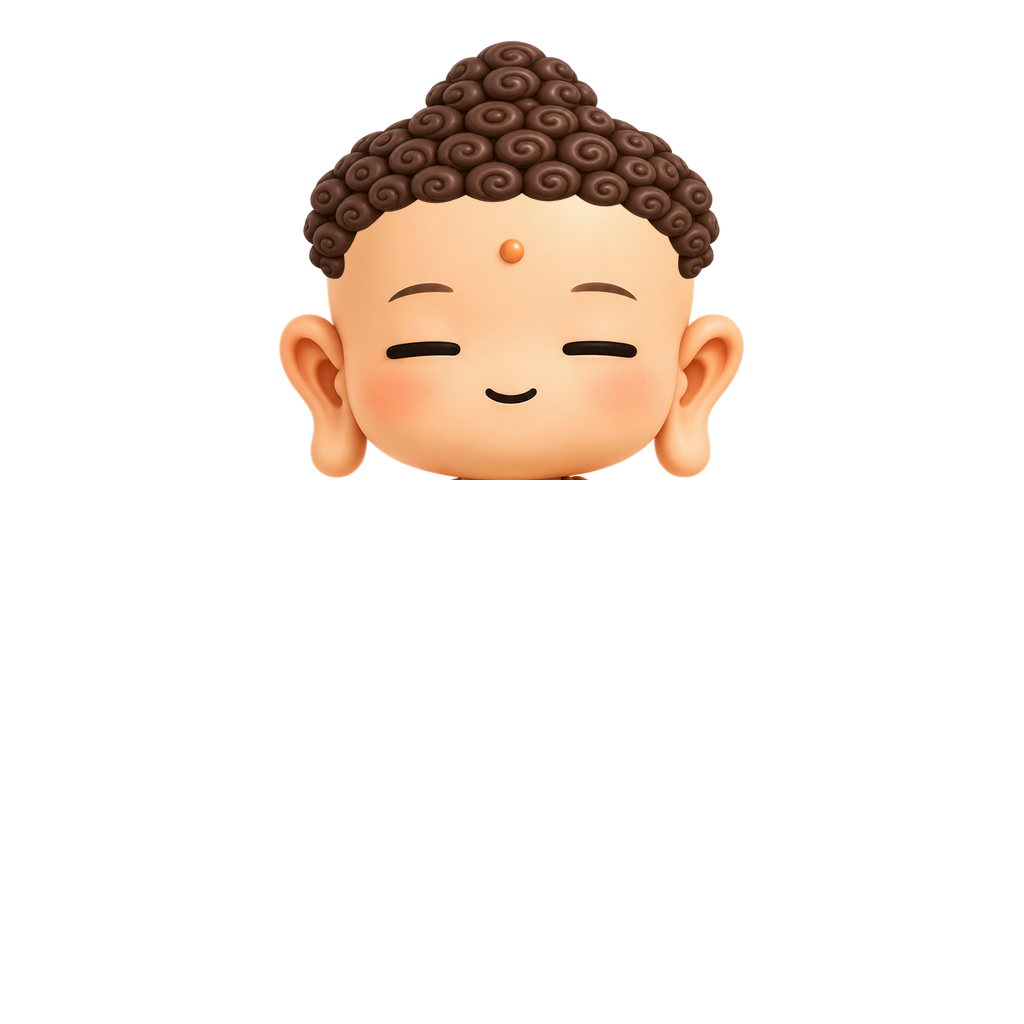
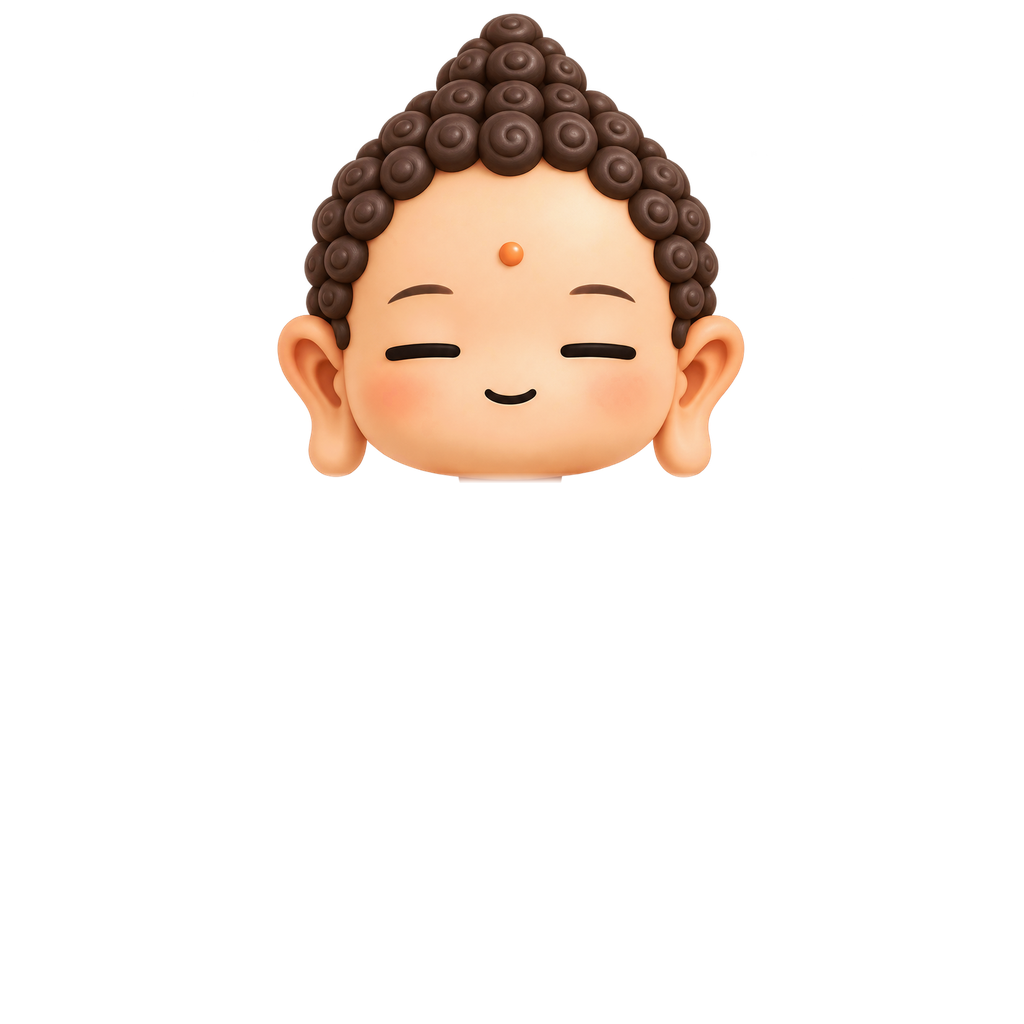
꾸미기: 머리 아이템을 GPT가 그린 「모자 쓴 얼굴」로 교체
삿갓·밀짚모자·나발을 씌우면 모자가 머리를 덮지 못하고 뚜껑처럼
정수리 위에 얹혀 보이던 문제를 고친다.

원인
- 앱에 들어가던 head_*.png 는 GPT가 새로 그린 「모자 쓴 얼굴」이
  아니었다. assemble_buddha_sprites.py 의 build_heads() 가 예전
  「모자만」 그림을 고정 크기(삿갓 500×190 등)로 늘려 y=40 에
  올려놓은 합성본이었다. 모자가 머리와 겹칠 수 없는 구조다.
- GPT가 19:08 에 만든 얼굴 3장은 생성 폴더에만 있고 쓰이지 않았다.

변경
- GPT 원본 3장을 Imgs/head_{bamboo,straw,nabal}_face.png 로 복사.
  기존 Imgs/head_*.png 는 건드리지 않았다.
- build_avatar_assets.py: head_*_face.png 가 있으면 베이스 좌표로 옮겨
  목 위만 잘라 쓴다. 얼굴 캔버스(1254)와 배율이 달라 정합이 필요하다.
  · 두 눈 가운데를 베이스 눈 가운데(510, 356)에 맞춤
  · 배율은 귀 끝~귀 끝 폭 기준(0.62~0.63). 눈 사이로 재면 귀가
    작아져 뒤의 베이스 민머리가 비친다
  · 옮긴 뒤 베이스 머리가 새 얼굴 밖으로 비치는 픽셀을 세어
    400px 을 넘으면 빌드를 멈춘다 (현재 16~169px, 목 이음매)
- make_avatar_thumbs.py: 얼굴을 따로 그린 것이라 맨머리와 비교하면
  눈·백호·귀 윤곽도 조금씩 남는다. 가는 선은 열림 연산으로 끊고,
  맨 위와 이어진 덩어리(모자)만 남긴다. 기준값 18→45 로 올려
  챙 아래 이마 띠도 없앴다.

확인
- 에뮬레이터에서 삿갓·밀짚모자 착용 확인, 목 이음매 이상 없음
- 썸네일 세 개 모두 물건만 나옴

diff --git a/tools/build_avatar_assets.py b/tools/build_avatar_assets.py
@@ -2,13 +2,16 @@
 
 Imgs/ (납품 원본) → assets/avatar/ (앱에 나가는 것)
 
-머리 아이템은 「전신 + 모자」로 받아서 여기서 목 위만 잘라낸다.
-GPT에게 목 아래를 지우라고 시키면 잘 못하는데, 베이스와 같은 좌표계라
-우리가 자르는 건 정확하다. 자세한 건 docs/부처님_머리_재작업요청서.md.
+머리 아이템은 「모자 쓴 얼굴」을 통째로 받는다. 받는 형태는 두 가지다.
 
-**위치나 크기를 여기서 보정하지 않는다.** 아이템이 어긋나 보이면 그건
-생성 단계에서 잡아야 한다. 여기서 손으로 맞추기 시작하면 아이템마다
-숫자를 붙들고 있어야 한다.
+- head_*_face.png — 얼굴만 그린 그림. 캔버스도 배율도 베이스와 다르므로
+  베이스 얼굴에 포개지게 옮겨 놓는다 (FACE_FIT). 모자만 따로 그려 얹으면
+  모자가 머리를 덮지 못하고 뚜껑처럼 올라앉는다. 그래서 얼굴째 받는다.
+- head_*_full.png — 베이스를 편집한 전신. 좌표가 같으니 목 위만 자른다.
+
+**아이템을 보기 좋게 옮기는 보정은 하지 않는다.** FACE_FIT 은 「얼굴을
+베이스 얼굴에 겹치는」 정합일 뿐이고, 그 결과가 베이스 머리를 다 덮는지
+여기서 검사한다. 모자가 크거나 낮아 보이면 그건 생성 단계에서 잡는다.
 
     python tools/build_avatar_assets.py
     python tools/make_avatar_thumbs.py    # 썸네일은 이 결과에서 다시 뽑는다
@@ -31,6 +34,20 @@ NECK_Y = 478
 
 # 잘린 끝을 몇 픽셀 흐리게 해서 경계선이 서지 않게 한다.
 NECK_FEATHER = 6
+
+# head_*_face.png 를 베이스 좌표로 옮기는 값: (배율, 왼쪽, 위).
+# 두 눈의 가운데를 베이스 눈 가운데(510, 356)에 맞추고, 배율은 귀 끝에서
+# 귀 끝까지의 폭으로 정했다. 눈 사이로 재면 GPT 얼굴의 귀가 상대적으로
+# 작아져서 뒤의 베이스 귀·민머리가 비친다. 세로는 베이스 머리가 가장 덜
+# 비치는 자리로 몇 픽셀 올렸다.
+FACE_FIT = {
+    "head_bamboo": (0.62, 123, -96),
+    "head_straw": (0.63, 116, -78),
+    "head_nabal": (0.62, 123, -112),
+}
+
+# 옮긴 얼굴 뒤로 베이스 민머리가 이만큼 넘게 비치면 정합이 틀린 것이다.
+MAX_PEEK = 400
 
 BASES = ["base_saffron", "base_temple", "base_ash", "base_crimson"]
 HEADS = ["head_nabal", "head_bamboo", "head_straw"]
@@ -68,6 +85,25 @@ def cut_head(full: Image.Image) -> Image.Image:
     return head
 
 
+def fit_face(face: Image.Image, fit, base: Image.Image) -> Image.Image:
+    """얼굴 그림을 베이스 캔버스로 옮기고 목 아래를 자른다."""
+    scale, left, top = fit
+    size = round(face.width * scale)
+    moved = face.resize((size, size), Image.Resampling.LANCZOS)
+    canvas = Image.new("RGBA", (CANVAS, CANVAS), (0, 0, 0, 0))
+    canvas.paste(moved, (left, top))
+    head = cut_head(canvas)
+
+    # 뒤에 깔린 베이스 머리가 새 얼굴 밖으로 비치는지 센다.
+    solid = lambda a: a.point(lambda v: 255 if v > 128 else 0)
+    under = solid(base.getchannel("A"))
+    under.paste(0, (0, NECK_Y - 8, CANVAS, CANVAS))
+    peek = ImageChops.subtract(under, solid(head.getchannel("A"))).histogram()[255]
+    if peek > MAX_PEEK:
+        raise SystemExit(f"베이스 머리가 {peek}px 비친다 — FACE_FIT 을 다시 재야 한다")
+    return head, peek
+
+
 def main() -> None:
     OUT.mkdir(parents=True, exist_ok=True)
 
@@ -75,9 +111,17 @@ def main() -> None:
         load(name).save(OUT / f"{name}.png", optimize=True)
         print(name)
 
+    base = load("base_saffron")
+
     for name in HEADS:
+        face = SRC / f"{name}_face.png"
         full = SRC / f"{name}_full.png"
-        if full.exists():
+        if face.exists():
+            image = Image.open(face).convert("RGBA")
+            head, peek = fit_face(image, FACE_FIT[name], base)
+            head.save(OUT / f"{name}.png", optimize=True)
+            print(f"{name}  (모자 쓴 얼굴을 베이스에 포갬, 비침 {peek}px)")
+        elif full.exists():
             # 새 방식: 전신을 받아 목 위만 잘라낸다.
             cut_head(load(f"{name}_full")).save(
                 OUT / f"{name}.png", optimize=True)

diff --git a/tools/make_avatar_thumbs.py b/tools/make_avatar_thumbs.py
@@ -81,12 +81,30 @@ def fill_holes(mask: Image.Image) -> Image.Image:
     return ImageChops.lighter(mask, background)
 
 
+def keep_top_blob(mask: Image.Image) -> Image.Image:
+    """맨 위 픽셀과 이어진 덩어리만 남긴다.
+
+    머리 레이어는 「모자 쓴 얼굴」을 따로 그려 받은 것이라 눈·백호·귀
+    윤곽이 베이스와 몇 픽셀씩 어긋난다. 그 차이도 조각으로 남는데, 모자는
+    늘 맨 위에서 시작하는 한 덩어리이니 거기 붙은 것만 고른다.
+    """
+    box = mask.getbbox()
+    if box is None:
+        return mask
+    top = box[1]
+    seed = next(x for x in range(mask.width) if mask.getpixel((x, top)))
+    marked = mask.copy()
+    ImageDraw.floodfill(marked, (seed, top), 128)
+    return marked.point(lambda v: 255 if v == 128 else 0)
+
+
 def extract_item(layer: Image.Image, bare_head: Image.Image,
-                 threshold: int = 18) -> Image.Image:
+                 threshold: int = 45) -> Image.Image:
     """머리 레이어에서 「베이스 얼굴과 달라진 부분」만 떼어낸다.
 
-    머리 아이템은 「베이스 얼굴 + 물건」으로 만들어져 있어서, 맨머리와
-    비교하면 남는 게 곧 물건이다. 옷장 목록에 얼굴이 줄줄이 나오면
+    머리 아이템은 「모자 쓴 얼굴」이라 맨머리와 비교하면 남는 게 곧
+    물건이다. 얼굴도 따로 그린 것이라 살색이 조금씩 다르다. 기준을 낮추면
+    챙 아래 이마가 띠처럼 딸려 나온다. 옷장 목록에 얼굴이 줄줄이 나오면
     답답해서 물건만 보여준다.
     """
     rgb = ImageChops.difference(layer.convert("RGB"), bare_head.convert("RGB"))
@@ -104,7 +122,10 @@ def extract_item(layer: Image.Image, bare_head: Image.Image,
     # 가로줄로 남으므로 목 근처는 아예 뺀다. 모자가 거기까지 올 일은 없다.
     mask.paste(0, (0, NECK_Y - 30, mask.width, mask.height))
 
+    # 어긋난 얼굴 윤곽은 가는 선으로 남는다. 먼저 깎아 모자와 떼어 놓는다.
+    mask = mask.filter(ImageFilter.MinFilter(7)).filter(ImageFilter.MaxFilter(7))
     mask = mask.filter(ImageFilter.MaxFilter(5)).filter(ImageFilter.MinFilter(5))
+    mask = keep_top_blob(mask)
     mask = fill_holes(mask)
 
     out = layer.copy()
